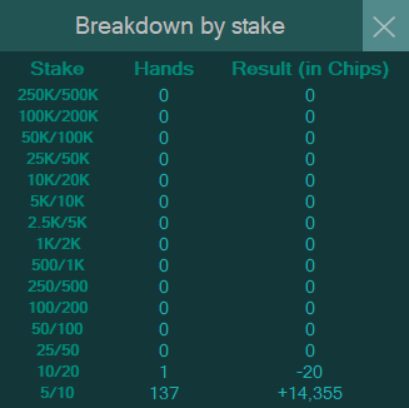
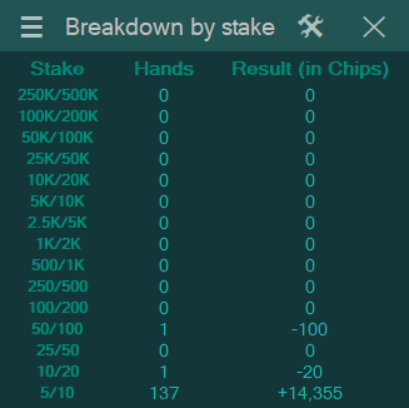
hamburger menu design

diff --git a/WindowsFormsApp1/WindowsFormsApp1/Stakes.Designer.cs b/WindowsFormsApp1/WindowsFormsApp1/Stakes.Designer.cs
@@ -86,10 +86,14 @@
             this.label2 = new System.Windows.Forms.Label();
             this.label51 = new System.Windows.Forms.Label();
             this.panel5 = new System.Windows.Forms.Panel();
+            this.tableLayoutPanel4 = new System.Windows.Forms.TableLayoutPanel();
+            this.label53 = new System.Windows.Forms.Label();
+            this.label54 = new System.Windows.Forms.Label();
             this.tableLayoutPanel1.SuspendLayout();
             this.tableLayoutPanel2.SuspendLayout();
             this.tableLayoutPanel3.SuspendLayout();
             this.panel1.SuspendLayout();
+            this.tableLayoutPanel4.SuspendLayout();
             this.SuspendLayout();
             // 
             // tableLayoutPanel1
@@ -987,6 +991,7 @@
             this.label52.TabIndex = 2;
             this.label52.Text = "≡";
             this.label52.TextAlign = System.Drawing.ContentAlignment.MiddleCenter;
+            this.label52.Click += new System.EventHandler(this.Label52_Click);
             this.label52.MouseEnter += new System.EventHandler(this.Label52_MouseEnter);
             this.label52.MouseLeave += new System.EventHandler(this.Label52_MouseLeave);
             // 
@@ -1031,6 +1036,7 @@
             this.label2.Location = new System.Drawing.Point(0, 0);
             this.label2.Margin = new System.Windows.Forms.Padding(0);
             this.label2.Name = "label2";
+            this.label2.Padding = new System.Windows.Forms.Padding(0, 2, 0, 0);
             this.label2.Size = new System.Drawing.Size(231, 51);
             this.label2.TabIndex = 0;
             this.label2.Text = "Breakdown by stake";
@@ -1065,6 +1071,54 @@
             this.panel5.Size = new System.Drawing.Size(0, 0);
             this.panel5.TabIndex = 14;
             // 
+            // tableLayoutPanel4
+            // 
+            this.tableLayoutPanel4.AutoSizeMode = System.Windows.Forms.AutoSizeMode.GrowAndShrink;
+            this.tableLayoutPanel4.BackColor = System.Drawing.Color.FromArgb(((int)(((byte)(35)))), ((int)(((byte)(84)))), ((int)(((byte)(84)))));
+            this.tableLayoutPanel4.ColumnCount = 1;
+            this.tableLayoutPanel4.ColumnStyles.Add(new System.Windows.Forms.ColumnStyle(System.Windows.Forms.SizeType.Percent, 100F));
+            this.tableLayoutPanel4.ColumnStyles.Add(new System.Windows.Forms.ColumnStyle(System.Windows.Forms.SizeType.Absolute, 20F));
+            this.tableLayoutPanel4.Controls.Add(this.label54, 0, 1);
+            this.tableLayoutPanel4.Controls.Add(this.label53, 0, 0);
+            this.tableLayoutPanel4.Location = new System.Drawing.Point(0, 51);
+            this.tableLayoutPanel4.Margin = new System.Windows.Forms.Padding(0);
+            this.tableLayoutPanel4.MinimumSize = new System.Drawing.Size(282, 113);
+            this.tableLayoutPanel4.Name = "tableLayoutPanel4";
+            this.tableLayoutPanel4.RowCount = 2;
+            this.tableLayoutPanel4.RowStyles.Add(new System.Windows.Forms.RowStyle(System.Windows.Forms.SizeType.Percent, 50F));
+            this.tableLayoutPanel4.RowStyles.Add(new System.Windows.Forms.RowStyle(System.Windows.Forms.SizeType.Percent, 50F));
+            this.tableLayoutPanel4.Size = new System.Drawing.Size(282, 113);
+            this.tableLayoutPanel4.TabIndex = 15;
+            this.tableLayoutPanel4.Visible = false;
+            // 
+            // label53
+            // 
+            this.label53.AutoSize = true;
+            this.label53.Dock = System.Windows.Forms.DockStyle.Fill;
+            this.label53.Font = new System.Drawing.Font("Microsoft Sans Serif", 11F, System.Drawing.FontStyle.Regular, System.Drawing.GraphicsUnit.Point, ((byte)(0)));
+            this.label53.ForeColor = System.Drawing.Color.Silver;
+            this.label53.Location = new System.Drawing.Point(0, 0);
+            this.label53.Margin = new System.Windows.Forms.Padding(0);
+            this.label53.Name = "label53";
+            this.label53.Size = new System.Drawing.Size(282, 56);
+            this.label53.TabIndex = 0;
+            this.label53.Text = "label53";
+            this.label53.TextAlign = System.Drawing.ContentAlignment.MiddleCenter;
+            // 
+            // label54
+            // 
+            this.label54.AutoSize = true;
+            this.label54.Dock = System.Windows.Forms.DockStyle.Fill;
+            this.label54.Font = new System.Drawing.Font("Microsoft Sans Serif", 11F, System.Drawing.FontStyle.Regular, System.Drawing.GraphicsUnit.Point, ((byte)(0)));
+            this.label54.ForeColor = System.Drawing.Color.Silver;
+            this.label54.Location = new System.Drawing.Point(0, 56);
+            this.label54.Margin = new System.Windows.Forms.Padding(0);
+            this.label54.Name = "label54";
+            this.label54.Size = new System.Drawing.Size(282, 57);
+            this.label54.TabIndex = 1;
+            this.label54.Text = "label54";
+            this.label54.TextAlign = System.Drawing.ContentAlignment.MiddleCenter;
+            // 
             // Stakes
             // 
             this.AutoScaleDimensions = new System.Drawing.SizeF(8F, 16F);
@@ -1072,7 +1126,8 @@
             this.AutoSize = true;
             this.AutoSizeMode = System.Windows.Forms.AutoSizeMode.GrowAndShrink;
             this.BackColor = System.Drawing.SystemColors.ControlLight;
-            this.ClientSize = new System.Drawing.Size(411, 389);
+            this.ClientSize = new System.Drawing.Size(411, 387);
+            this.Controls.Add(this.tableLayoutPanel4);
             this.Controls.Add(this.panel3);
             this.Controls.Add(this.tableLayoutPanel2);
             this.Controls.Add(this.panel5);
@@ -1087,6 +1142,8 @@
             this.tableLayoutPanel3.ResumeLayout(false);
             this.tableLayoutPanel3.PerformLayout();
             this.panel1.ResumeLayout(false);
+            this.tableLayoutPanel4.ResumeLayout(false);
+            this.tableLayoutPanel4.PerformLayout();
             this.ResumeLayout(false);
             this.PerformLayout();
 
@@ -1151,6 +1208,9 @@
         private System.Windows.Forms.Label label2;
         private System.Windows.Forms.Label label51;
         private System.Windows.Forms.Label label52;
+        private System.Windows.Forms.TableLayoutPanel tableLayoutPanel4;
+        private System.Windows.Forms.Label label54;
+        private System.Windows.Forms.Label label53;
     }
 }
 

diff --git a/WindowsFormsApp1/WindowsFormsApp1/Stakes.cs b/WindowsFormsApp1/WindowsFormsApp1/Stakes.cs
@@ -286,5 +286,10 @@ namespace WindowsFormsApp1
         {
 
         }
+
+        private void Label52_Click(object sender, EventArgs e)
+        {
+            tableLayoutPanel4.Visible = !tableLayoutPanel4.Visible;
+        }
     }
 }
